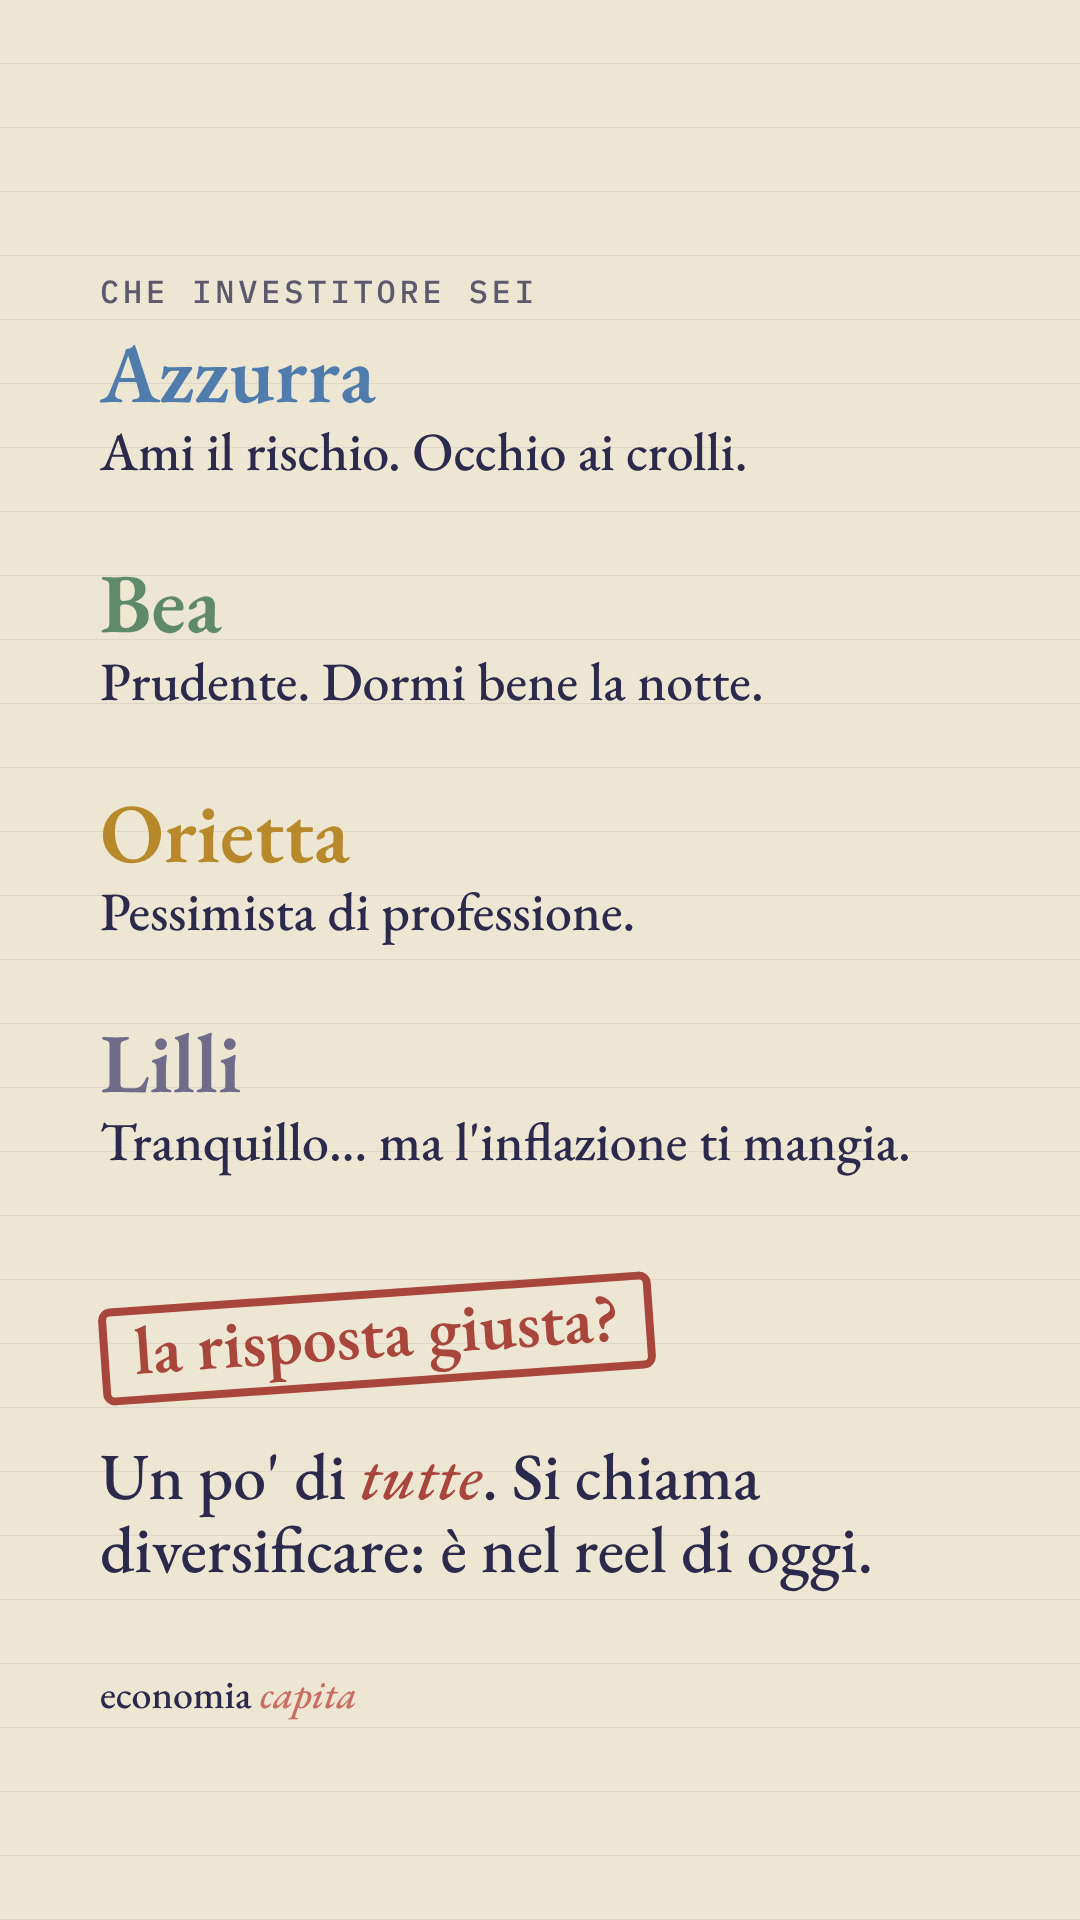
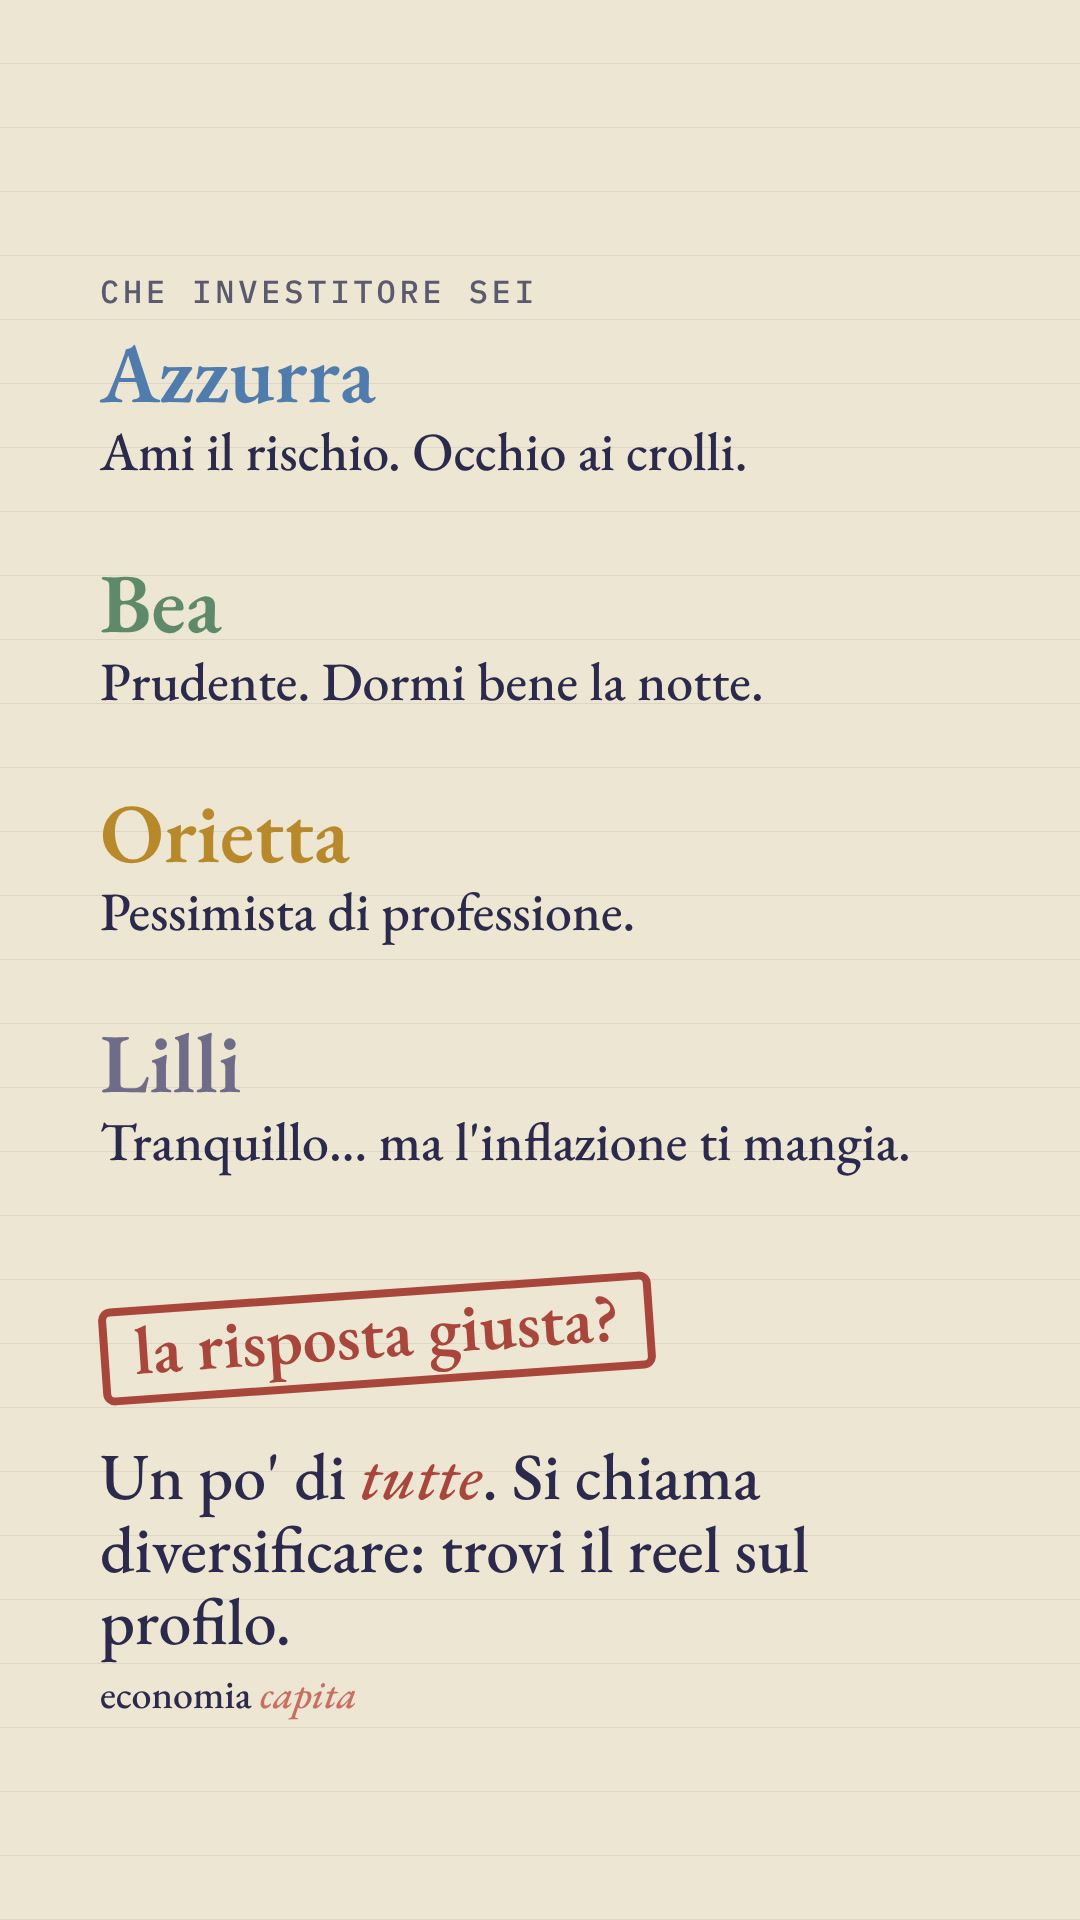
Storie: testo aggiornato
Claude-Session: https://claude.ai/code/session_01FSTS1kinohyxLP7o2tZWM6

Changed region(s): [[0.3972, 0.7812, 0.7944, 0.8438], [0.0917, 0.8125, 0.275, 0.875]]

diff --git a/studio/src/storie-20nov-v2.py b/studio/src/storie-20nov-v2.py
@@ -28,13 +28,13 @@ def shot(name, theme, body):
 # 1 — Che ragazza di Gigi sei? (sondaggio a 4 opzioni / quiz)
 cards=[(100,820,'#4F7CAC','azioni','Azzurra','ti fa sognare, poi ti molla'),(570,820,'#5E8A69','obbligazioni','Bea','noiosa ma puntuale'),
        (100,1160,'#B8892A','oro','Orietta','c&#39;è quando va tutto male'),(570,1160,'#6E6C88','liquidità','Lilli','zero sorprese, zero guadagni')]
-b='<div class="k">dopo il reel di oggi</div><div class="t">Tu con chi staresti? <em>Sii onesto.</em></div>'
+b='<div class="k">dopo l&#39;ultimo reel</div><div class="t">Tu con chi staresti? <em>Sii onesto.</em></div>'
 b+=''.join(f'<div class="card" style="left:{x}px;top:{y}px;border-color:{c}"><div class="cl">{l}</div><div class="cn" style="color:{c}">{n}</div><div class="cd">{d}</div></div>' for x,y,c,l,n,d in cards)
 b+='<div class="a" style="left:100px;right:90px;top:1450px;font-size:50px;line-height:1.15">Scegline una. <b>Solo una.</b></div><div class="tap">poi tocca → e scopri che investitore sei</div>'
 shot('a1-che-ragazza-sei','carta',b)
 rows=[('#4F7CAC','Azzurra','Ami il rischio. Occhio ai crolli.'),('#5E8A69','Bea','Prudente. Dormi bene la notte.'),('#B8892A','Orietta','Pessimista di professione.'),('#6E6C88','Lilli','Tranquillo… ma l&#39;inflazione ti mangia.')]
 b='<div class="k">che investitore sei</div>'+''.join(f'<div class="a" style="left:100px;right:90px;top:{330+i*230}px"><div style="font-size:84px;font-weight:600;color:{c};line-height:1">{n}</div><div style="font-size:54px;line-height:1.15;margin-top:6px">{d}</div></div>' for i,(c,n,d) in enumerate(rows))
-b+='<div class="a" style="left:100px;top:1290px;transform:rotate(-4deg)"><span class="stamp" style="font-size:68px">la risposta giusta?</span></div><div class="a" style="left:100px;right:90px;top:1440px;font-size:66px;line-height:1.1">Un po&#39; di <em>tutte</em>. Si chiama diversificare: è nel reel di oggi.</div>'
+b+='<div class="a" style="left:100px;top:1290px;transform:rotate(-4deg)"><span class="stamp" style="font-size:68px">la risposta giusta?</span></div><div class="a" style="left:100px;right:90px;top:1440px;font-size:66px;line-height:1.1">Un po&#39; di <em>tutte</em>. Si chiama diversificare: trovi il reel sul profilo.</div>'
 shot('a2-che-investitore-sei','carta',b)
 # 2a — Quiz sconto
 b=('<div class="k">black friday · quiz</div><div class="t">«Da 100 € a <em>50 €</em>.»<br/>Ma 20 giorni fa costava 60 €.</div>'
